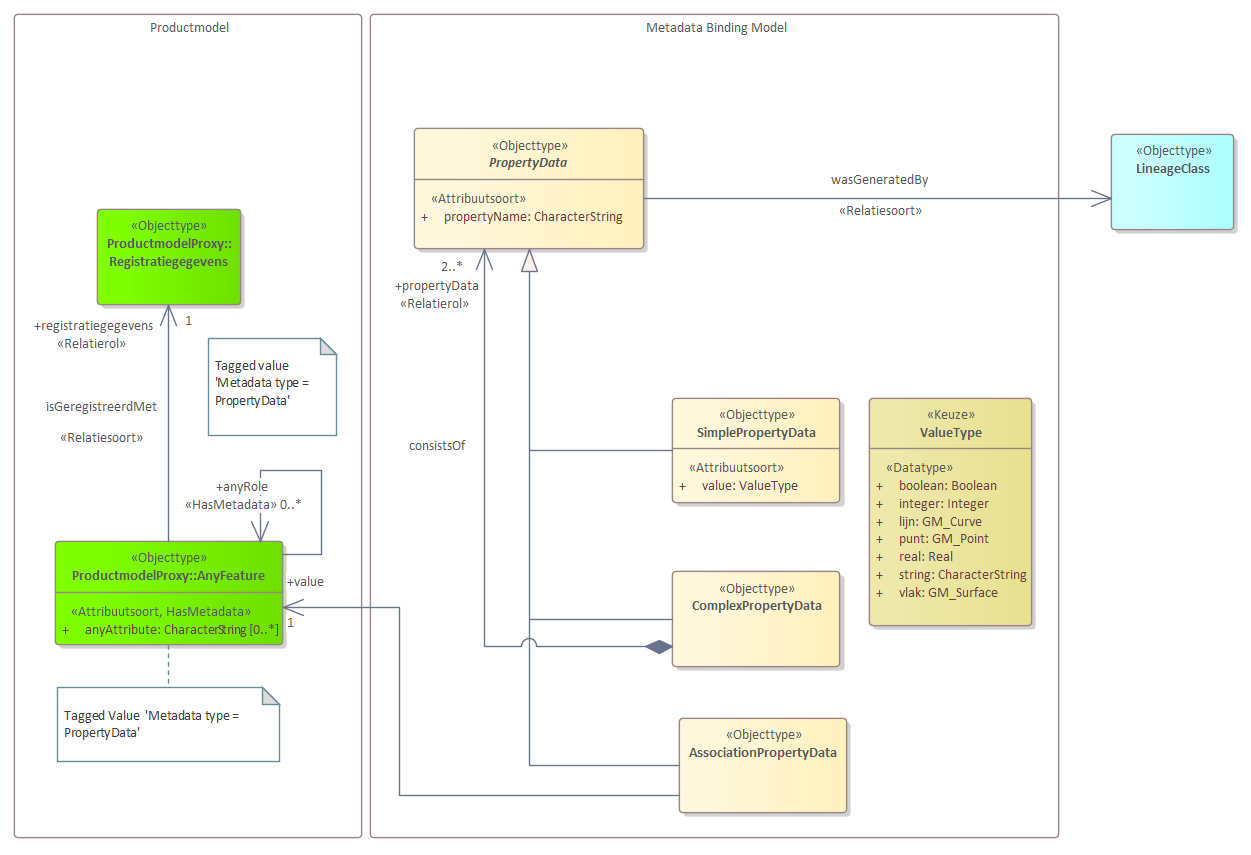
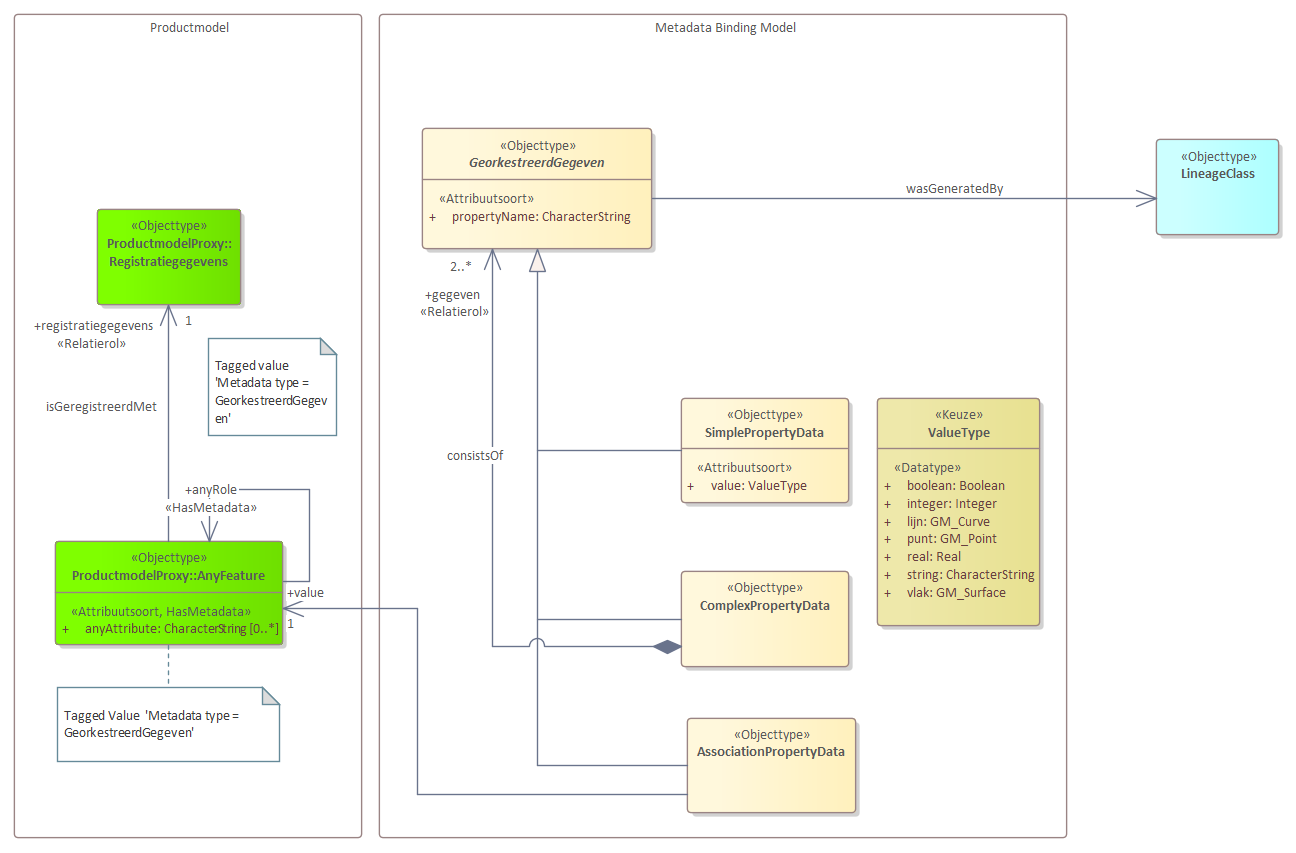
update

diff --git a/Metadata_extensie.md b/Metadata_extensie.md
@@ -75,6 +75,13 @@ This UML profile is implemented in a EA MDG Technology named [HasMetadata_mdg](U
 <figcaption>Todo: Stereotype `«HasMetadata»` as extension on MIM-UML metaclasses</figcaption>
 </figure>
  
+ 
+ **Example of this Metadata profile applied in a MIM-UML model.**
+ 
+ <figure id="Figure_5">
+<img src="media/Example_gebouw.png" alt="">
+<figcaption>Example of Stereotype `«HasMetadata»` applied in MIM-UML model</figcaption>
+</figure>
 
 # Implementation, encoding.
 
@@ -83,17 +90,17 @@ The challenges regarding the implementation of this conceptual metadata construc
 The UML model of this pattern is presented below.
 
 
-<figure id="Figure_5">
+<figure id="Figure_6">
 <img src="media/Binding model.png" alt="">
 <figcaption>Pattern for the Metadata binding model. Objectification of properties.</figcaption>
 </figure>
 
 
 Explanation of diagram.  
-The Metadata binding model serves as a objectification of the properties of the productmodel. Each property (attributes and association roles) is transfomed to an instance of the objecttype `PropertyType` having its name in `propertName`. Depending on the type of property (or its associated value type) a SimplePropertData, ComplexPropertyData or the AssociationPropertyData is chosen.
+The Metadata binding model serves as a objectification of the properties of the productmodel. Each property (attributes and association roles) is transfomed to an instance of the objecttype `GeorkestreerdGegeven` having its name in `propertyName`. Depending on the type of property (or its associated value type) a SimplePropertData, ComplexPropertyData or the AssociationPropertyData is chosen.
 SimplePropertyData for properties with a unstructured valuetypes, ComplexPropertyData for structured valuetypes and AssociationPropertyData for association roles.
 The value of a property is transformed to the `value` attribute or the `value` association role.
 
 In this model there is no explicit information link between a property and its value of the productmodel and its objectified `PropertyData` and value instance. To bind data of the productmodel to instances of 'PropertyData' is bij convention. The convention is that instances from objecttypes of the Productmodel and its properties and values by convention are bindend to instances of PropertyData and values in the Metadata Binding Model having the value for `propertName` and `value` equal to the name of the property and its value.  
-So without specifying apart for the three subtypes of `PropertyData` the convention rule is: `Productmodel.property = PropertyData.propertyName AND Productmodel.property.value = PropertyData.value`
+So without specifying apart for the three subtypes of `GeorkestreerdGegeven` the convention rule is: `Productmodel.property = GeorkestreerdGegeven.propertyName AND Productmodel.property.value = GeorkestreerdGegeven.value`
 

diff --git a/Informatiemodel.md b/Informatiemodel.md
@@ -1,8 +1,13 @@
 ## Information model
 
+
+**_NOTE:_**  The information model is work in progress
+
 The next chapter will describe the lineage information model. UML diagrams and an objectcataloque are presented.
 
 The UML diagrams are linked to the objectcatalogue items by clicking on the objecttypes.
+
+
 
 
 
